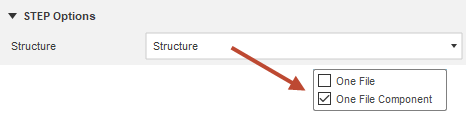
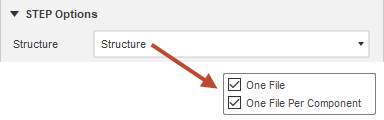
UI_STRUCTURE_ONE_FILE_PER_COMPONENT_VALUE = 'One File Component' is not moved to UI_STRUCTURE_ONE_FILE_PER_COMPONENT_VALUE_DEPRECATED and replaced with UI_STRUCTURE_ONE_FILE_PER_COMPONENT_VALUE = 'One File Per Component'

Changed region(s): [[0.25, 0.2521, 1.0, 0.958], [0.0, 0.0756, 0.2812, 0.1765], [0.0, 0.3277, 0.1562, 0.4286]]

diff --git a/commands/ConfigurationHelper.py b/commands/ConfigurationHelper.py
@@ -158,10 +158,10 @@ def initializeConfiguration(document, attributeGroup, attributeKey, generatedCon
     logger.debug("generateVersion: %s", generatedVersion)
     logger.debug("defaultConfiguration.get(CONF_VERSION_KEY): %s", defaultConfiguration.get(CONF_VERSION_KEY))
 
+    modified = False
+    
     if not generatedVersion == defaultConfiguration.get(CONF_VERSION_KEY):
         logger.info("Default configuration is outdated")
-
-        modified = False
 
         for key in generatedConfiguration:
             try:
@@ -180,8 +180,23 @@ def initializeConfiguration(document, attributeGroup, attributeKey, generatedCon
 
                 logger.debug("%s = %s added to default configuration", key, generatedConfiguration[key])
 
-        if modified:
-            writeDefaultConfiguration()
+    # remove deprecated entries from dropdown lists
+    if UI_STRUCTURE_ONE_FILE_PER_COMPONENT_VALUE_DEPRECATED in defaultConfiguration.get(CONF_STEP_STRUCTURE_KEY):
+        logger.warning("Found deprecated entry in default step structure. Updating it from %s to %s.", UI_STRUCTURE_ONE_FILE_PER_COMPONENT_VALUE_DEPRECATED, UI_STRUCTURE_ONE_FILE_PER_COMPONENT_VALUE)
+
+        modified = True
+        defaultConfiguration[CONF_STEP_STRUCTURE_KEY].remove(UI_STRUCTURE_ONE_FILE_PER_COMPONENT_VALUE_DEPRECATED)
+        defaultConfiguration[CONF_STEP_STRUCTURE_KEY].append(UI_STRUCTURE_ONE_FILE_PER_COMPONENT_VALUE)
+
+    if UI_STRUCTURE_ONE_FILE_PER_COMPONENT_VALUE_DEPRECATED in defaultConfiguration.get(CONF_F3D_STRUCTURE_KEY):
+        logger.warning("Found deprecated entry in default f3d structure. Updating it from %s to %s.", UI_STRUCTURE_ONE_FILE_PER_COMPONENT_VALUE_DEPRECATED, UI_STRUCTURE_ONE_FILE_PER_COMPONENT_VALUE)
+
+        modified = True
+        defaultConfiguration[CONF_F3D_STRUCTURE_KEY].remove(UI_STRUCTURE_ONE_FILE_PER_COMPONENT_VALUE_DEPRECATED)
+        defaultConfiguration[CONF_F3D_STRUCTURE_KEY].append(UI_STRUCTURE_ONE_FILE_PER_COMPONENT_VALUE)
+
+    if modified:
+        writeDefaultConfiguration()
 
     if document:
         # load project configuration
@@ -190,21 +205,32 @@ def initializeConfiguration(document, attributeGroup, attributeKey, generatedCon
 
         try:
             projectConfiguration = json.loads(attribute.value)
-        except:
-            pass
-
-        if len(projectConfiguration) == 0:
-            projectConfiguration = defaultConfiguration
-            configurationChanged = True
-
-            logger.info('No project configuration found. Defaults copied to project configuration')
-
-        try:
-            projectConfiguration = json.loads(attribute.value)
-            logger.debug("project configuration loaded")
+            logger.info("project configuration loaded")
         except:
             projectConfiguration = {}
             logger.debug("no project configuration found")
+
+        # remove deprecated entries from dropdown lists
+        try:
+            if UI_STRUCTURE_ONE_FILE_PER_COMPONENT_VALUE_DEPRECATED in projectConfiguration.get(CONF_STEP_STRUCTURE_KEY):
+                logger.warning("Found deprecated entry in project step structure. Updating it from %s to %s.", UI_STRUCTURE_ONE_FILE_PER_COMPONENT_VALUE_DEPRECATED, UI_STRUCTURE_ONE_FILE_PER_COMPONENT_VALUE)
+
+                configurationChanged = True
+                projectConfiguration[CONF_STEP_STRUCTURE_KEY].remove(UI_STRUCTURE_ONE_FILE_PER_COMPONENT_VALUE_DEPRECATED)
+                projectConfiguration[CONF_STEP_STRUCTURE_KEY].append(UI_STRUCTURE_ONE_FILE_PER_COMPONENT_VALUE)
+        except:
+            pass
+
+        try:
+            if UI_STRUCTURE_ONE_FILE_PER_COMPONENT_VALUE_DEPRECATED in projectConfiguration.get(CONF_F3D_STRUCTURE_KEY):
+                logger.warning("Found deprecated entry in project f3d structure. Updating it from %s to %s.", UI_STRUCTURE_ONE_FILE_PER_COMPONENT_VALUE_DEPRECATED, UI_STRUCTURE_ONE_FILE_PER_COMPONENT_VALUE)
+
+                configurationChanged = True
+                projectConfiguration[CONF_F3D_STRUCTURE_KEY].remove(UI_STRUCTURE_ONE_FILE_PER_COMPONENT_VALUE_DEPRECATED)
+                projectConfiguration[CONF_F3D_STRUCTURE_KEY].append(UI_STRUCTURE_ONE_FILE_PER_COMPONENT_VALUE)
+        except:
+            pass
+
     else:
         editDefaultsMode = True
         logger.debug("Edit defaults mode enabled")

diff --git a/commands/Statics.py b/commands/Statics.py
@@ -8,7 +8,8 @@ LOG_LEVEL = logging.DEBUG                                                       
 UI_STRUCTURE_ONE_FILE_VALUE = 'One File'                                                    # Export as one file
 UI_STRUCTURE_ONE_FILE_PER_BODY_IN_COMPONENT_VALUE = 'One File Per Body In Component'        # Export one file per body in unique component
 UI_STRUCTURE_ONE_FILE_PER_BODY_IN_OCCURRENCE_VALUE = 'One File Per Body In Occurrence'      # Export one file per body in unique occurrence
-UI_STRUCTURE_ONE_FILE_PER_COMPONENT_VALUE = 'One File Component'                            # Export one file per unique component
+UI_STRUCTURE_ONE_FILE_PER_COMPONENT_VALUE = 'One File Per Component'                        # Export one file per unique component
+UI_STRUCTURE_ONE_FILE_PER_COMPONENT_VALUE_DEPRECATED = 'One File Component'                 # Deprecated
 UI_STL_REFINEMENT_NAME = 'Refinement'                                                       # refinement (resolution / density) for stl exports
 UI_STL_REFINEMENT_ULTRA_VALUE = 'Ultra'                                                     # refinement ultra
 UI_STL_REFINEMENT_HIGH_VALUE = 'High'                                                       # refinement high

diff --git a/README.md b/README.md
@@ -289,7 +289,7 @@ Version | Date | Description
 0.3.0 | 21.07.2020 | Main enhancement is the addition of F3D exports. Additionally a progress dialog is shown on larger exports and a summary message is shown at the end of an export.
 0.4.0 | 22.07.2020 | UI cleaned up by adding _Export_, _Location_ and _Misc_ tabs. Filename filter added to remove spaces from filenames. Export filter added that prevents linked components to be exported.
 0.5.0 | 04.08.2020 | A checkbox is added that allows to reset the base directory / export directory after closing the _Default Configuration_ command with the _OK_ button or by starting an export in the _Export Design_ command. The new workflow closes the issue #1 and the new checkbox closes the enhancement #8. In addition, the concept of the export directory is no longer based only on the idea of a standard / base directory. It can now be better adapted to different workflows by enabling the configuration of a base directory or the configuration of the export directory when exporting a new design for the first time, or by having to configure the export directory every time an export is triggered. The new options close the extension #7.
-TODO 0.6.0 | XX.08.2020 | XXXX
+TODO 0.6.0 | XX.08.2020 | XXXX. Additionally some inconsistencies in the naming of structures are fixed.
 
 ## Known Issus
 
